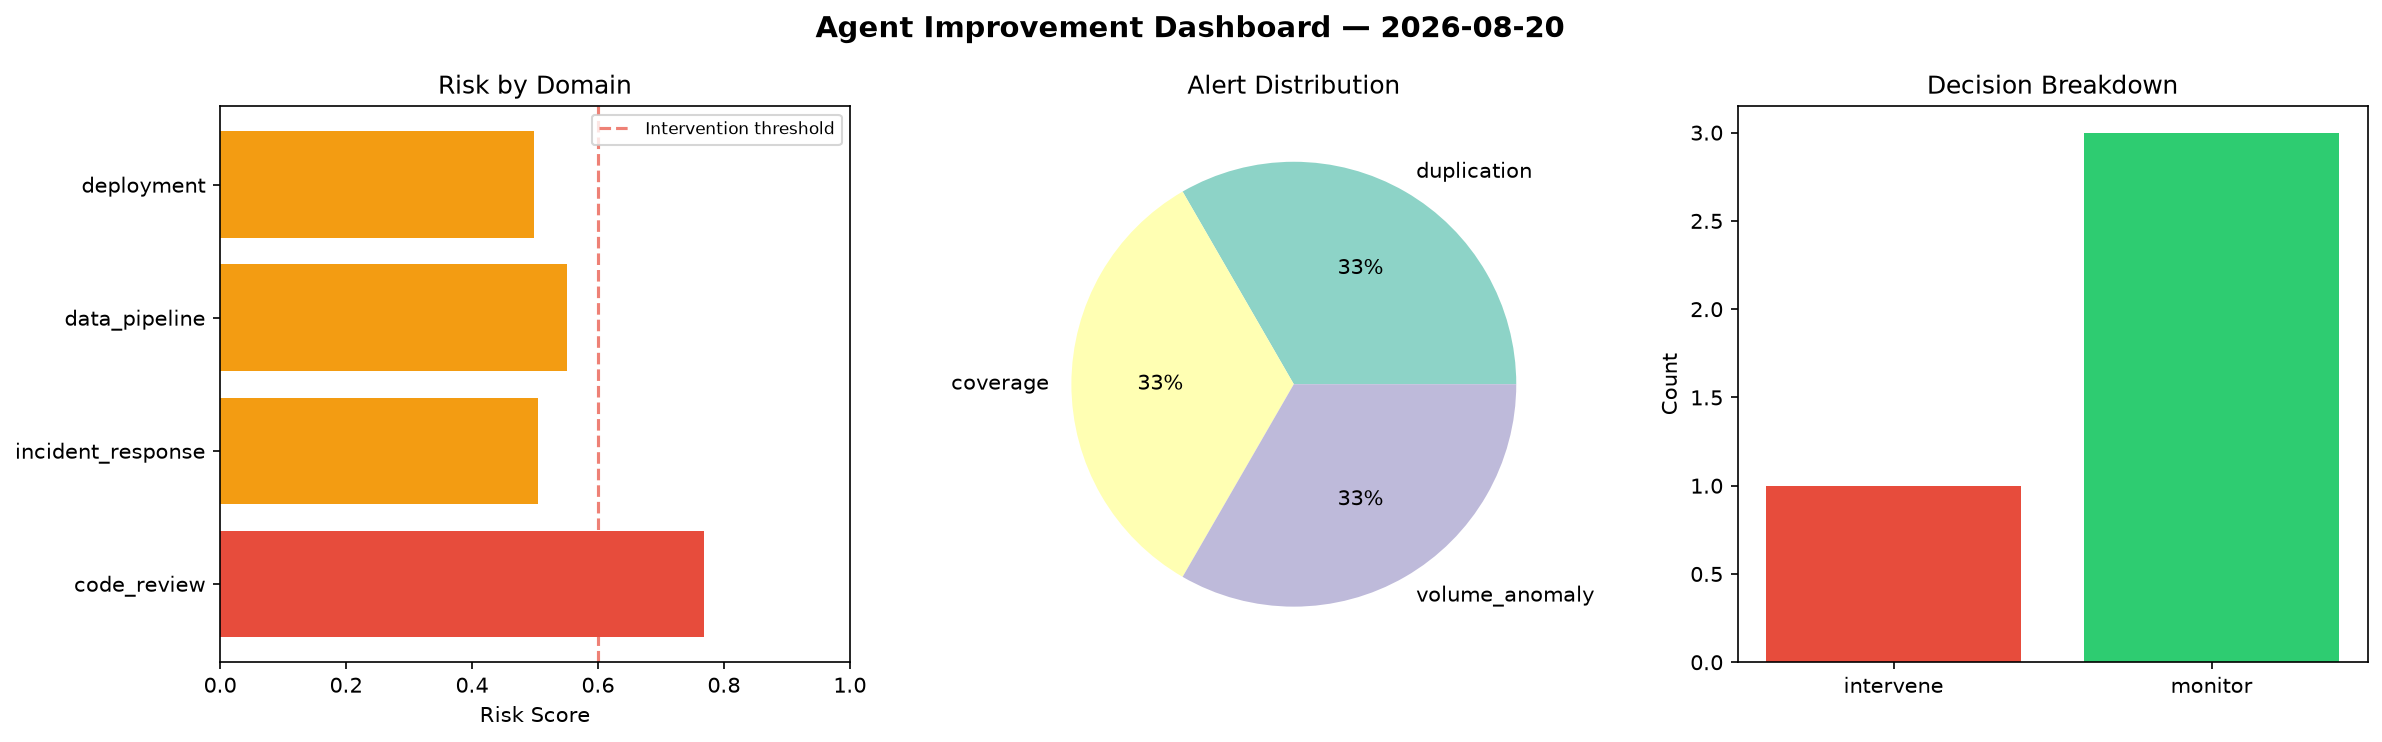
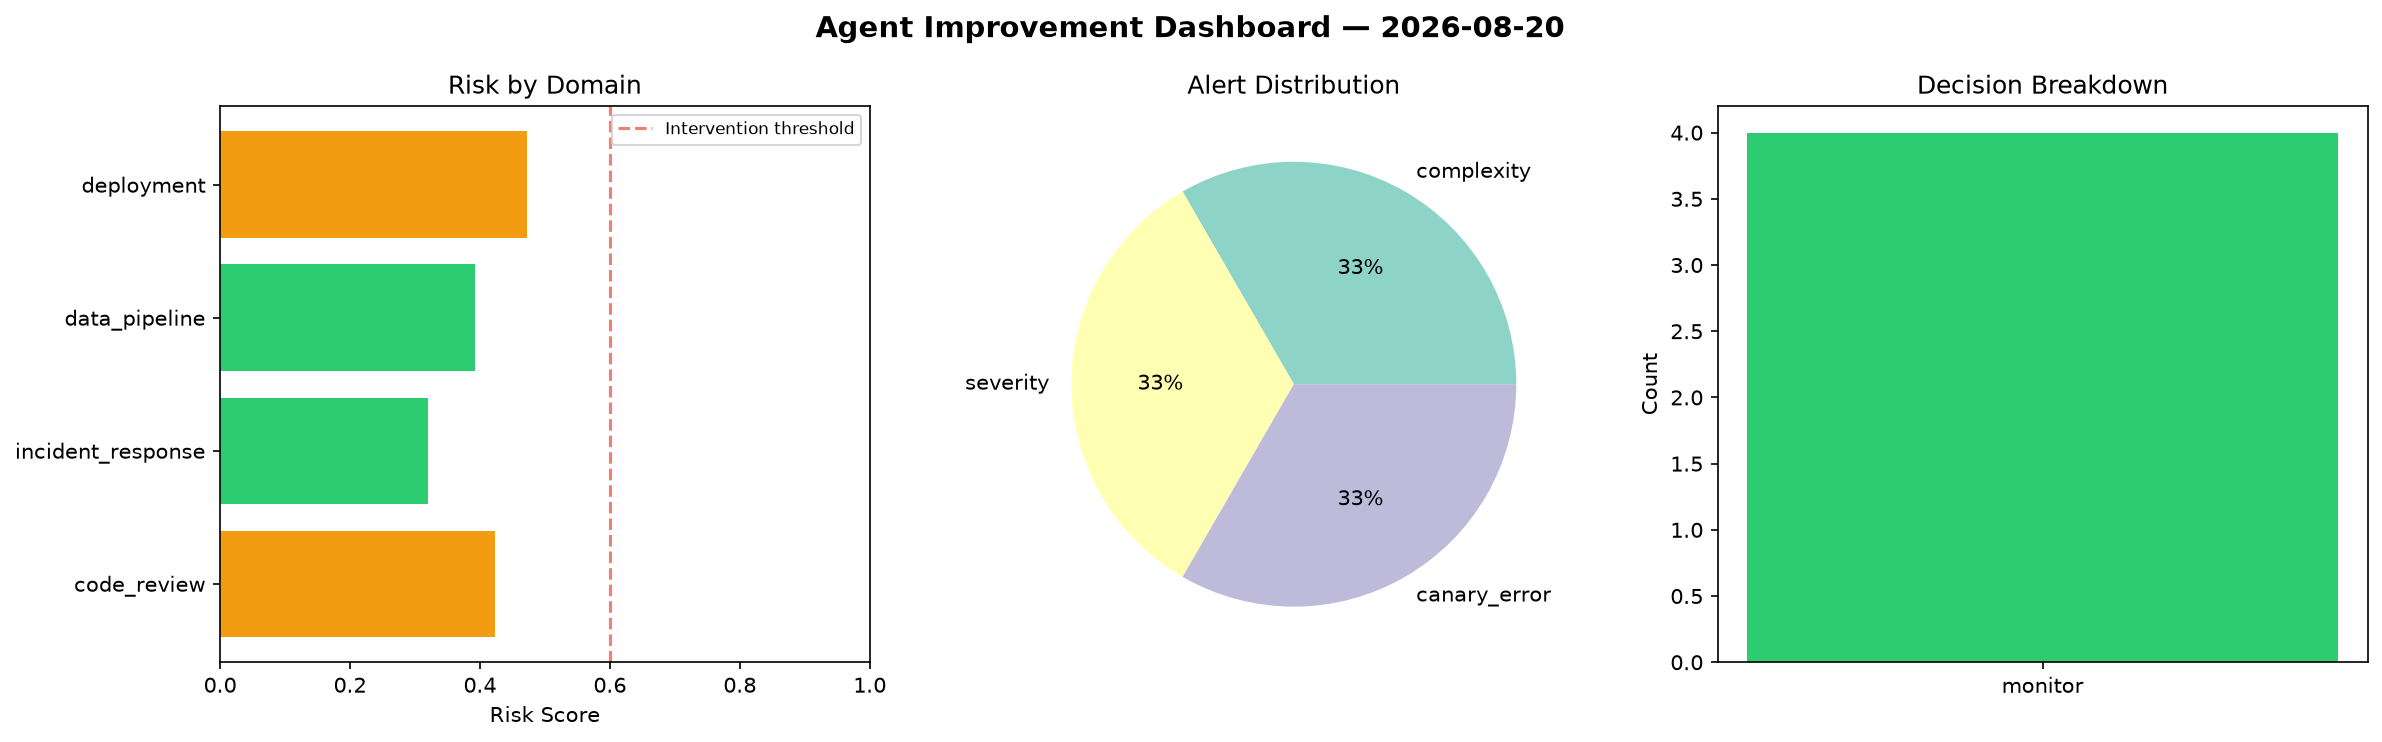
agent-improvement: daily cycle 2026-08-20T08:56

diff --git a/logs/2026-08-20.md b/logs/2026-08-20.md
@@ -1,6 +1,6 @@
 # Agent Improvement Report — 2026-08-20
 
-**Cycle ID:** `6bce21f9` | **Avg Risk:** 0.5806 | **Interventions:** 1/4
+**Cycle ID:** `599d0899` | **Avg Risk:** 0.4017 | **Interventions:** 0/4
 
 ![Dashboard](2026-08-20_dashboard.png)
 
@@ -10,18 +10,18 @@
 
 | Domain | Risk Score | Decision | Alerts |
 |--------|-----------|----------|--------|
-| code_review | 0.7686 | intervene | duplication, coverage |
-| incident_response | 0.5041 | monitor | none |
-| data_pipeline | 0.5509 | monitor | volume_anomaly |
-| deployment | 0.4987 | monitor | none |
+| code_review | 0.4224 | monitor | complexity |
+| incident_response | 0.3204 | monitor | severity |
+| data_pipeline | 0.3916 | monitor | none |
+| deployment | 0.4725 | monitor | canary_error |
 
 ## Delta vs Yesterday
 
 | Domain | Today | Yesterday | Change |
 |--------|-------|-----------|--------|
-| code_review | 0.7686 | 0.423 | 📈 81.7% |
-| incident_response | 0.5041 | 0.5918 | 📉 -14.8% |
-| data_pipeline | 0.5509 | 0.3709 | 📈 48.5% |
-| deployment | 0.4987 | 0.5933 | 📉 -15.9% |
+| code_review | 0.4224 | 0.423 | 📉 -0.1% |
+| incident_response | 0.3204 | 0.5918 | 📉 -45.9% |
+| data_pipeline | 0.3916 | 0.3709 | 📈 5.6% |
+| deployment | 0.4725 | 0.5933 | 📉 -20.4% |
 
-**Refinement:** `{'adjustment': 'maintain', 'trend': 'improving', 'window': 4}`
+**Refinement:** `{'adjustment': 'tighten_thresholds', 'trend': 'degrading', 'window': 4}`
